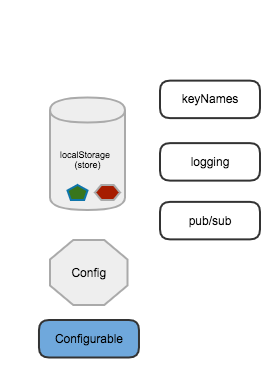
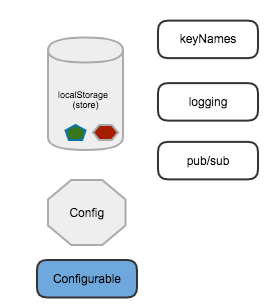
resize and crop

diff --git a/Readme.md b/Readme.md
@@ -15,7 +15,7 @@ See the docs for each of the modules included for more details including install
 
 - `@tecla5/token-foundation` - token storage and common utilities
 
-<img src="https://github.com/tecla5/easy-graphql-auth/raw/master/pics/token-foundation.png" alt="GraphQL Auth" width="50%" height="50%">
+<img src="https://github.com/tecla5/easy-graphql-auth/raw/master/pics/token-foundation.png" alt="GraphQL Auth" width="25%" height="25%">
 
 ### GraphQL client (auth) connection
 
